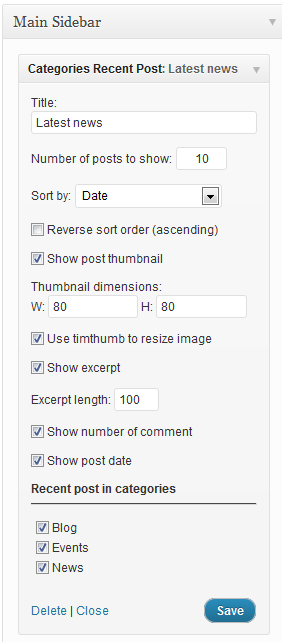
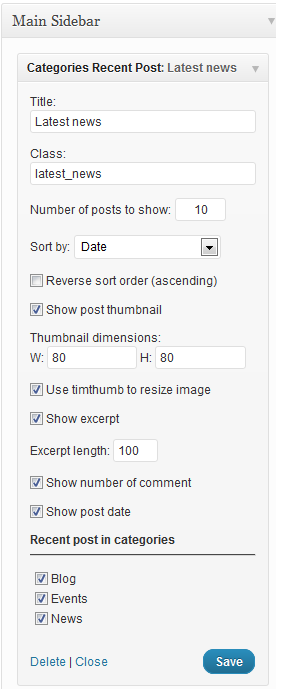
add custom class
git-svn-id: https://plugins.svn.wordpress.org/categories-recent-post/trunk@582163 b8457f37-d9ea-0310-8a92-e5e31aec5664

diff --git a/categories_recent_posts.php b/categories_recent_posts.php
@@ -69,7 +69,7 @@ class Category_Recent_posts extends WP_Widget {
 				"&order=" . $sort_order
 			  );
 			// Post list
-			echo "<ul>\n";
+			echo '<ul class="'.$instance["class"].'">';
 			
 			while ( $cat_posts->have_posts() )
 			{
@@ -122,7 +122,7 @@ class Category_Recent_posts extends WP_Widget {
 			<?php
 			}
 			wp_reset_query();
-			echo "</ul>\n";
+			echo "</ul>";
 			
 		echo $after_widget;
 		remove_filter('excerpt_length', $new_excerpt_length);
@@ -136,6 +136,12 @@ class Category_Recent_posts extends WP_Widget {
 			<label for="<?php echo $this->get_field_id("title"); ?>">
 				<?php _e( 'Title' ); ?>:
 				<input class="widefat" id="<?php echo $this->get_field_id("title"); ?>" name="<?php echo $this->get_field_name("title"); ?>" type="text" value="<?php echo esc_attr($instance["title"]); ?>" />
+			</label>
+		</p>
+        <p>
+			<label for="<?php echo $this->get_field_id("class"); ?>">
+				<?php _e( 'Class' ); ?>:
+				<input class="widefat" id="<?php echo $this->get_field_id("class"); ?>" name="<?php echo $this->get_field_name("class"); ?>" type="text" value="<?php echo esc_attr($instance["class"]); ?>" />
 			</label>
 		</p>
         <p>
